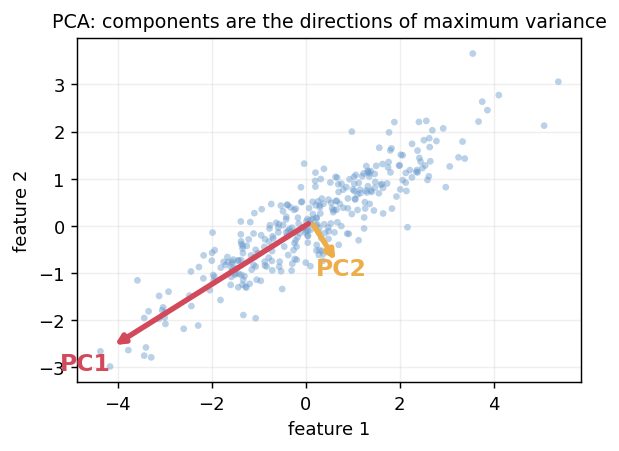
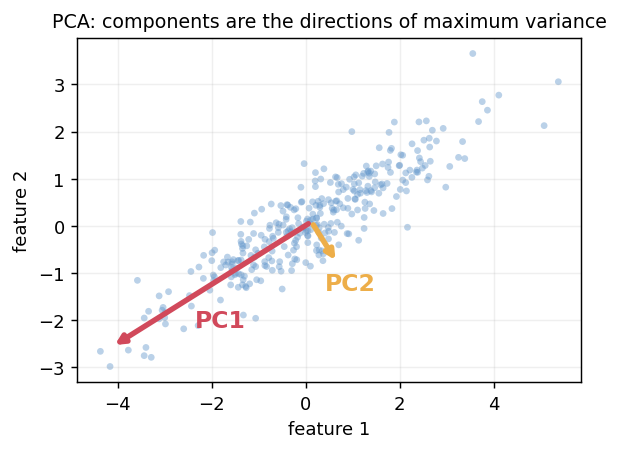
Place the PC1 label alongside the red component vector
Move the PC1 text off the crowded arrow tip to beside the middle of its shaft, so it clearly labels the red vector.

Changed region(s): [[0.4911, 0.5588, 0.6139, 0.6519], [0.3069, 0.6829, 0.399, 0.745], [0.0921, 0.7761, 0.1842, 0.8381]]

diff --git a/docs/source/_figures/generate_concept_diagrams.py b/docs/source/_figures/generate_concept_diagrams.py
@@ -28,9 +28,15 @@ fig, ax = plt.subplots(figsize=(5, 5))
 ax.scatter(X[:, 0], X[:, 1], s=14, alpha=0.45, color="#6699cc", edgecolor="none")
 for k, (val, vec) in enumerate(zip(vals, vecs.T)):
     L = 2.6 * np.sqrt(val); col = ["#d1495b", "#edae49"][k]
-    ax.annotate("", xy=mu + L * vec, xytext=mu,
+    tip = mu + L * vec
+    ax.annotate("", xy=tip, xytext=mu,
                 arrowprops=dict(arrowstyle="-|>", lw=3, color=col))
-    ax.text(*(mu + L * vec * 1.13), f"PC{k+1}", color=col, fontsize=13,
+    perp = np.array([-vec[1], vec[0]])
+    if k == 0:                                  # PC1: beside the middle of the shaft
+        pos = mu + 0.55 * L * vec + 0.75 * perp
+    else:                                       # PC2: just beyond the short arrow tip
+        pos = tip + 0.5 * vec
+    ax.text(pos[0], pos[1], f"PC{k+1}", color=col, fontsize=13,
             fontweight="bold", ha="center", va="center")
 ax.set_aspect("equal"); ax.grid(alpha=0.2)
 ax.set_xlabel("feature 1"); ax.set_ylabel("feature 2")
